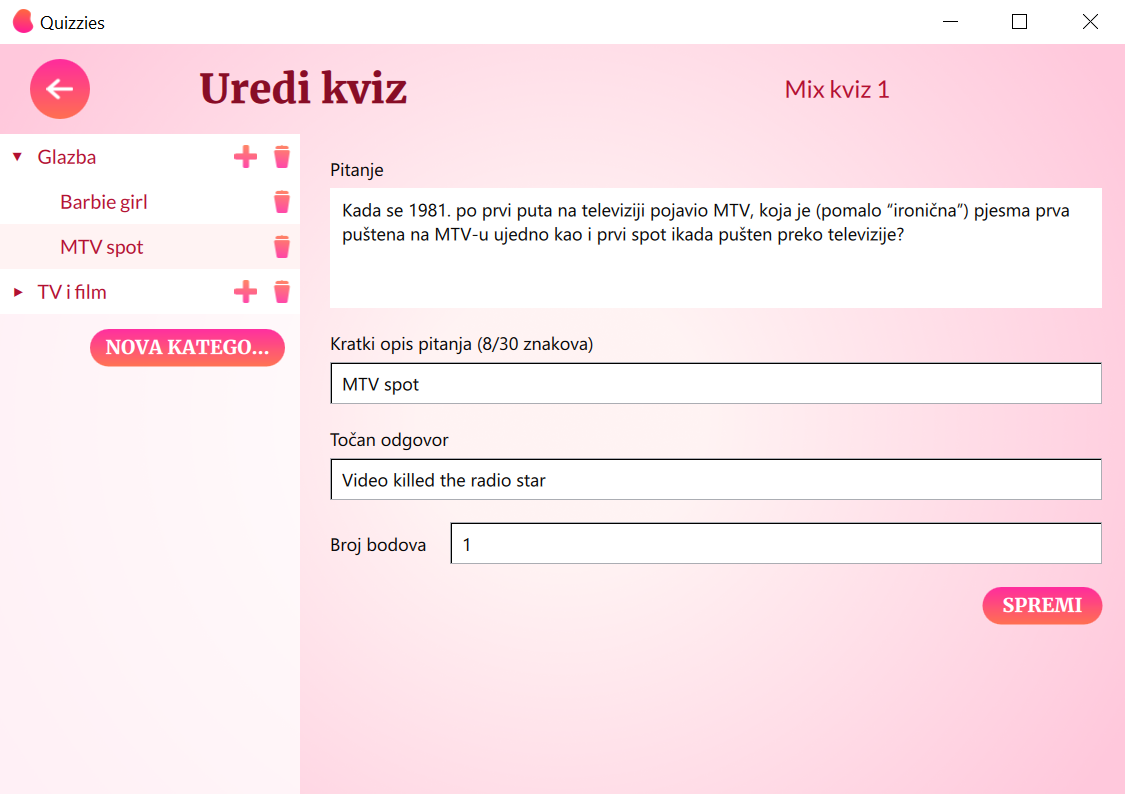
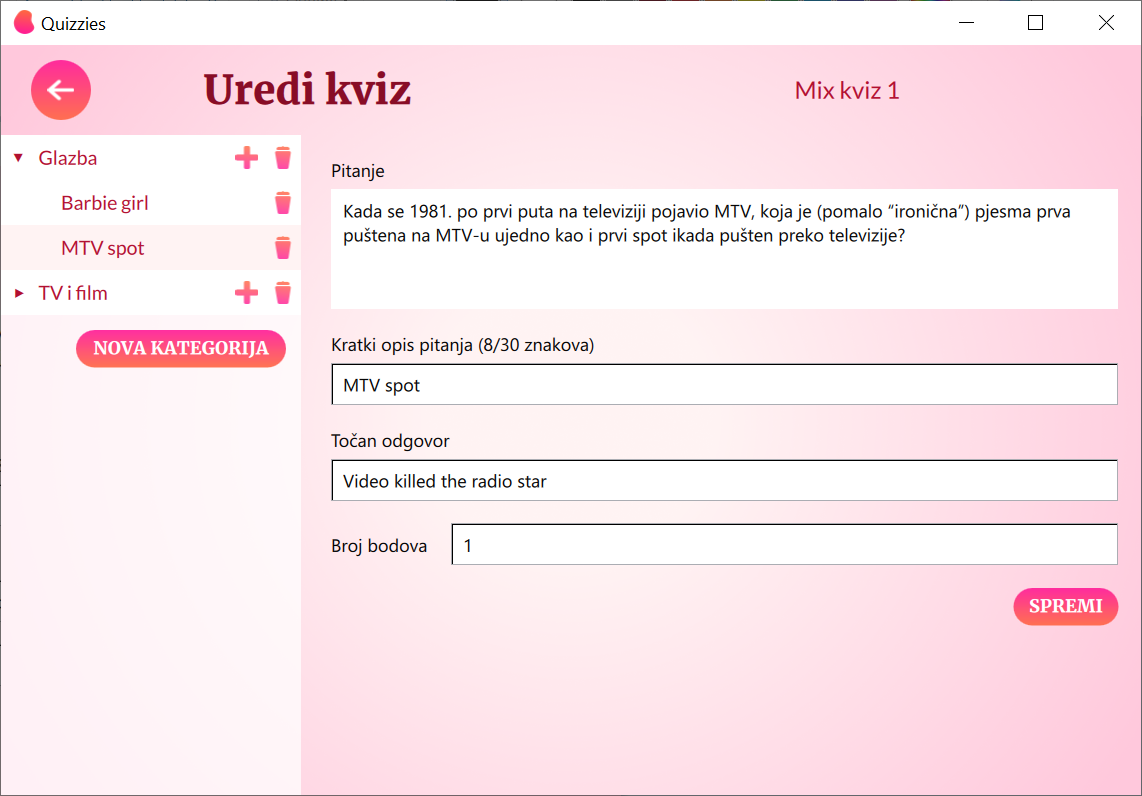
readme - the code

diff --git a/src/qml/QuizziesEditPage.qml b/src/qml/QuizziesEditPage.qml
@@ -102,9 +102,9 @@ Page {
                     anchors.top: categoriesTreeView.bottom
                     anchors.right: parent.right
                     anchors.margins: 10
-                    implicitWidth: 130
+                    implicitWidth: 140
                     implicitHeight: 25
-                    font.pointSize: 10
+                    font.pointSize: 9
                     text: "NOVA KATEGORIJA"
                     onClicked: {
                         var d = dialogCreate.createObject(editPage);
@@ -126,9 +126,9 @@ Page {
                 QuizziesEditForm { id: form }
                 RoundGradientButton {
                     Layout.alignment: Qt.AlignRight
-                    implicitWidth: 80
+                    implicitWidth: 70
                     implicitHeight: 25
-                    font.pointSize: 10
+                    font.pointSize: 9
                     text: "SPREMI"
                     onClicked: {
                         var i = selection.selectedIndexes[0];

diff --git a/src/models.py b/src/models.py
@@ -22,15 +22,6 @@ class CategoriesTreeModel(QAbstractItemModel):
         self.roleNames = lambda: role_names
         self.columnCount = lambda i: 1
 
-    @Slot(QModelIndex)
-    def delete(self, i):
-        data = self.itemData(i)
-        if self.execute_query(f"DELETE FROM {data['type']} WHERE id="
-                              f"{data['id']}"):
-            self.removeRow(i.row(), self.parent(i))
-        else:
-            print("Failed to execute query")
-
     def set_quiz(self, quiz):
         self.quiz = quiz
 
@@ -44,6 +35,55 @@ class CategoriesTreeModel(QAbstractItemModel):
             return 0
         else:
             return len(self.quiz.categories)
+
+    def index(self, row, column, parent=QModelIndex()):
+        if column != 0:
+            return QModelIndex()
+        if not self.hasIndex(row, column, parent):
+            return QModelIndex()
+        if parent.isValid():
+            item = parent.internalPointer()
+            # if isinstance(item, Quiz):
+            #     return self.createIndex(row, column, item.categories[row])
+            if isinstance(item, Category):
+                return self.createIndex(row, column, item.questions[row])
+            return QModelIndex()
+        else:
+            return self.createIndex(row, column, self.quiz.categories[row])
+
+    def parent(self, index=QModelIndex()):
+        if not index.isValid():
+            return QModelIndex()
+        item = index.internalPointer()
+        if isinstance(item, Category):
+            # root object (quiz) is not displayed, categories are at the root
+            # this also means that their parent in this model is None !
+            return QModelIndex()
+        elif isinstance(item, Question):
+            row = -1
+            parent_item = None
+            for i, category in enumerate(self.quiz.categories):
+                if item in category.questions:
+                    row = i
+                    parent_item = category
+                    break
+            if row >= 0:
+                return self.createIndex(row, 0, parent_item)
+        return QModelIndex()
+
+    def data(self, index, role=Qt.DisplayRole):
+        if not index.isValid():
+            return
+
+        item = index.internalPointer()
+
+        if role == Qt.DisplayRole:
+            return item.name
+        if role == roles.ModelIndexRole:
+            return index
+        prop = roles.MAPPINGS.get(role)
+        if prop is not None:
+            return getattr(item, prop)
 
     def insertRow(self, row, parent=QModelIndex(), *args):
         if len(args) == 0:
@@ -64,6 +104,20 @@ class CategoriesTreeModel(QAbstractItemModel):
         else:
             del self.quiz.categories[row]
         self.endRemoveRows()
+
+    def setData(self, index, *args, **kwargs):
+        if not index.isValid():
+            return False
+
+        value, role = args
+        item = index.internalPointer()
+        prop = roles.MAPPINGS.get(role)
+        if prop is not None and getattr(item, prop) is not None:
+            setattr(item, prop, value)
+            self.dataChanged.emit(index, index)
+            return True
+
+        return False
 
     @Slot(QModelIndex, result='QModelIndex')
     def prev(self, i):
@@ -118,68 +172,29 @@ class CategoriesTreeModel(QAbstractItemModel):
                     data[prop] = attr
         return data
 
-    def index(self, row, column, parent=QModelIndex()):
-        if column != 0:
-            return QModelIndex()
-        if not self.hasIndex(row, column, parent):
-            return QModelIndex()
-        if parent.isValid():
-            item = parent.internalPointer()
-            # if isinstance(item, Quiz):
-            #     return self.createIndex(row, column, item.categories[row])
-            if isinstance(item, Category):
-                return self.createIndex(row, column, item.questions[row])
-            return QModelIndex()
+    @Slot(str)
+    def createCategory(self, name):
+        if self.execute_query(f"INSERT INTO category(name, quiz_id) "
+                              f"VALUES ('{name}', {self.quiz.id})"):
+            self.insertRow(len(self.quiz.categories), QModelIndex(),
+                           Category(self.last_insert_id(), name))
         else:
-            return self.createIndex(row, column, self.quiz.categories[row])
+            print("Failed to execute query")
 
-    def parent(self, index=QModelIndex()):
-        if not index.isValid():
-            return QModelIndex()
-        item = index.internalPointer()
-        if isinstance(item, Category):
-            # root object (quiz) is not displayed, categories are at the root
-            # this also means that their parent in this model is None !
-            return QModelIndex()
-        elif isinstance(item, Question):
-            row = -1
-            parent_item = None
-            for i, category in enumerate(self.quiz.categories):
-                if item in category.questions:
-                    row = i
-                    parent_item = category
-                    break
-            if row >= 0:
-                return self.createIndex(row, 0, parent_item)
+    @Slot(str, QModelIndex, result='QModelIndex')
+    def createQuestion(self, name, category):
+        row = self.rowCount(category)
+        if self.execute_query(f"INSERT INTO question(name, qtype) "
+                              f"VALUES ('{name}', 1)"):
+            q_id = self.last_insert_id()
+            c_id = self.data(category, roles.IdRole)
+            if self.execute_query(f"INSERT INTO category_question( "
+                                  f"category_id, question_id) "
+                                  f"VALUES ({c_id}, {q_id})"):
+                self.insertRow(row, category, Question(q_id, name, 1))
+                return self.index(row, 0, category)
+        print("Failed to execute query")
         return QModelIndex()
-
-    def data(self, index, role=Qt.DisplayRole):
-        if not index.isValid():
-            return
-
-        item = index.internalPointer()
-
-        if role == Qt.DisplayRole:
-            return item.name
-        if role == roles.ModelIndexRole:
-            return index
-        prop = roles.MAPPINGS.get(role)
-        if prop is not None:
-            return getattr(item, prop)
-
-    def setData(self, index, *args, **kwargs):
-        if not index.isValid():
-            return False
-
-        value, role = args
-        item = index.internalPointer()
-        prop = roles.MAPPINGS.get(role)
-        if prop is not None and getattr(item, prop) is not None:
-            setattr(item, prop, value)
-            self.dataChanged.emit(index, index)
-            return True
-
-        return False
 
     @Slot(QModelIndex, str)
     def updateCategory(self, index, name):
@@ -187,7 +202,8 @@ class CategoriesTreeModel(QAbstractItemModel):
             return
 
         _id = self.data(index, roles.IdRole)
-        if self.execute_query(f"UPDATE category SET name='{name}' WHERE id={_id}"):
+        if self.execute_query(
+                f"UPDATE category SET name='{name}' WHERE id={_id}"):
             self.setData(index, name, roles.NameRole)
         else:
             print("Failed to execute query")
@@ -232,29 +248,14 @@ class CategoriesTreeModel(QAbstractItemModel):
         else:
             print("Failed to execute query")
 
-    @Slot(str)
-    def createCategory(self, name):
-        if self.execute_query(f"INSERT INTO category(name, quiz_id) "
-                              f"VALUES ('{name}', {self.quiz.id})"):
-            self.insertRow(len(self.quiz.categories), QModelIndex(),
-                           Category(self.last_insert_id(), name))
+    @Slot(QModelIndex)
+    def delete(self, i):
+        data = self.itemData(i)
+        if self.execute_query(f"DELETE FROM {data['type']} WHERE id="
+                              f"{data['id']}"):
+            self.removeRow(i.row(), self.parent(i))
         else:
             print("Failed to execute query")
-
-    @Slot(str, QModelIndex, result='QModelIndex')
-    def createQuestion(self, name, category):
-        row = self.rowCount(category)
-        if self.execute_query(f"INSERT INTO question(name, qtype) "
-                              f"VALUES ('{name}', 1)"):
-            q_id = self.last_insert_id()
-            c_id = self.data(category, roles.IdRole)
-            if self.execute_query(f"INSERT INTO category_question( "
-                                  f"category_id, question_id) "
-                                  f"VALUES ({c_id}, {q_id})"):
-                self.insertRow(row, category, Question(q_id, name, 1))
-                return self.index(row, 0, category)
-        print("Failed to execute query")
-        return QModelIndex()
 
 
 class QuizListModel(QAbstractListModel):

diff --git a/src/data.py b/src/data.py
@@ -1,8 +1,8 @@
-import os
 import re
 from dataclasses import dataclass, field
+from pathlib import Path
 
-from PySide6.QtCore import QDir, QFile, QIODevice, QTextStream
+from PySide6.QtCore import QFile, QIODevice, QTextStream
 from PySide6.QtSql import QSqlDatabase, QSqlQuery
 
 
@@ -64,14 +64,8 @@ class Database:
             if not self.database.isValid():
                 print("Cannot add database")
 
-        abs_path = os.path.realpath(__file__)
-        write_dir = QDir("\\".join(abs_path.split('\\')[:-1]))
-        if not write_dir.mkpath("."):
-            print("Failed to create writable directory")
-
-        # Ensure that we have a writable location on all devices.
-        abs_path = write_dir.absolutePath()
-        filename = f"{abs_path}/db.sqlite3"
+        db_file = Path(__file__).parent / "db.sqlite3"
+        filename = str(db_file.resolve())
 
         # When using the SQLite driver, open() will create the SQLite
         # database if it doesn't exist.

diff --git a/README.md b/README.md
@@ -18,6 +18,7 @@ python main.py
 ```
 
 ## User guide
+
 On the home screen, you can choose to create your quiz or select one of the existing quizzes. All the quizzes you create and the few default ones are displayed in a list, and you can either view them, edit them or delete them.
 
 ![Home page](/images/HomePage.png "Home page")
@@ -45,7 +46,34 @@ In the top left corner, there is a *Back* button to get you to the home screen.
 
 ## The code
 
+### The database
 
+Starting the app will initialize the connection to an SQLite database by opening the `src\db.sqlite3` file. If the file doesn't exist, it will be created, and all the necessary SQL tables will be added, along with two example quizzes. The changes you make to your quizzes update the database, they are persistent and will be visible if you close and reopen the app.
+
+The app uses the [Qt SQL module](https://doc.qt.io/qt-6/qtsql-index.html), specifically the SQL API Layer to interact with the database.
+
+Database schema:
+![Database schema](images/db2.png "Database schema")
+
+### The models (Model/View Architecture)
+
+Two models are implemented in the Quizzies app:
+
+- QuizListModel:
+  - inherited from [QAbstractListModel](https://doc.qt.io/qt-6/qabstractlistmodel.html)
+  - used on the home screen
+  - contains the list of all the quizzes
+  - contains slots for creating, updating, deleting quizzes and fetching details (categories and questions)
+  - overrides methods `data`, `insertRow` and `removeRow`
+
+
+- CategoriesTreeModel:
+  - inherited from [QAbstractItemModel](https://doc.qt.io/qt-6/qabstractitemmodel.html)
+  - used on the edit page for displaying the quiz' categories and questions and on the presentation screen for displaying the current category or question
+  - contains the current (selected) quiz
+  - contains slots for creating, updating and deleting categories and questions, navigating through them (getting the previous or next     element), and getting the desired element as a dictionary
+  - overrides methods `rowCount`, `index`, `parent`,
+    `data`, `insertRow`, `removeRow` and `setData`
 
 ## Future steps
 
